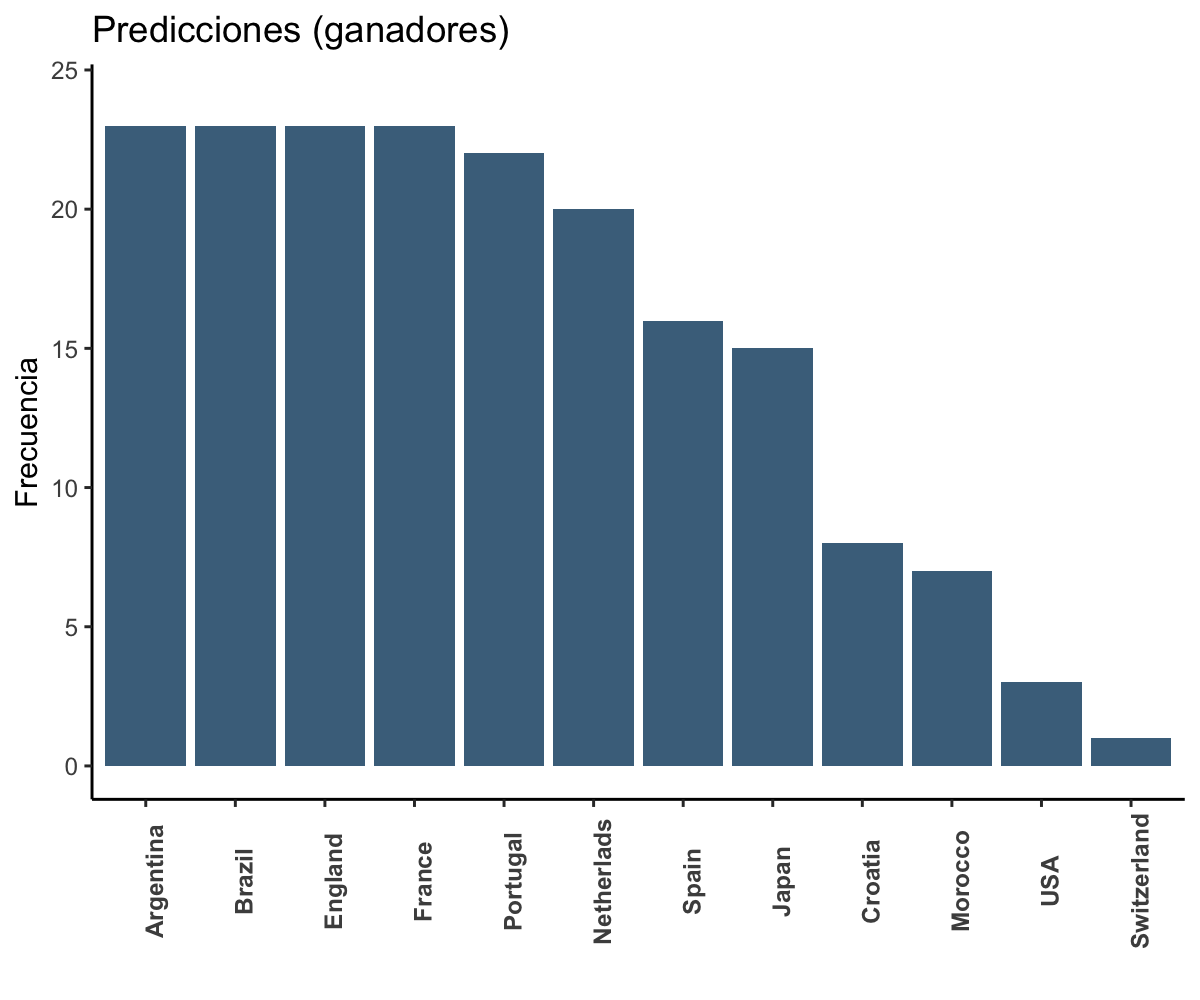
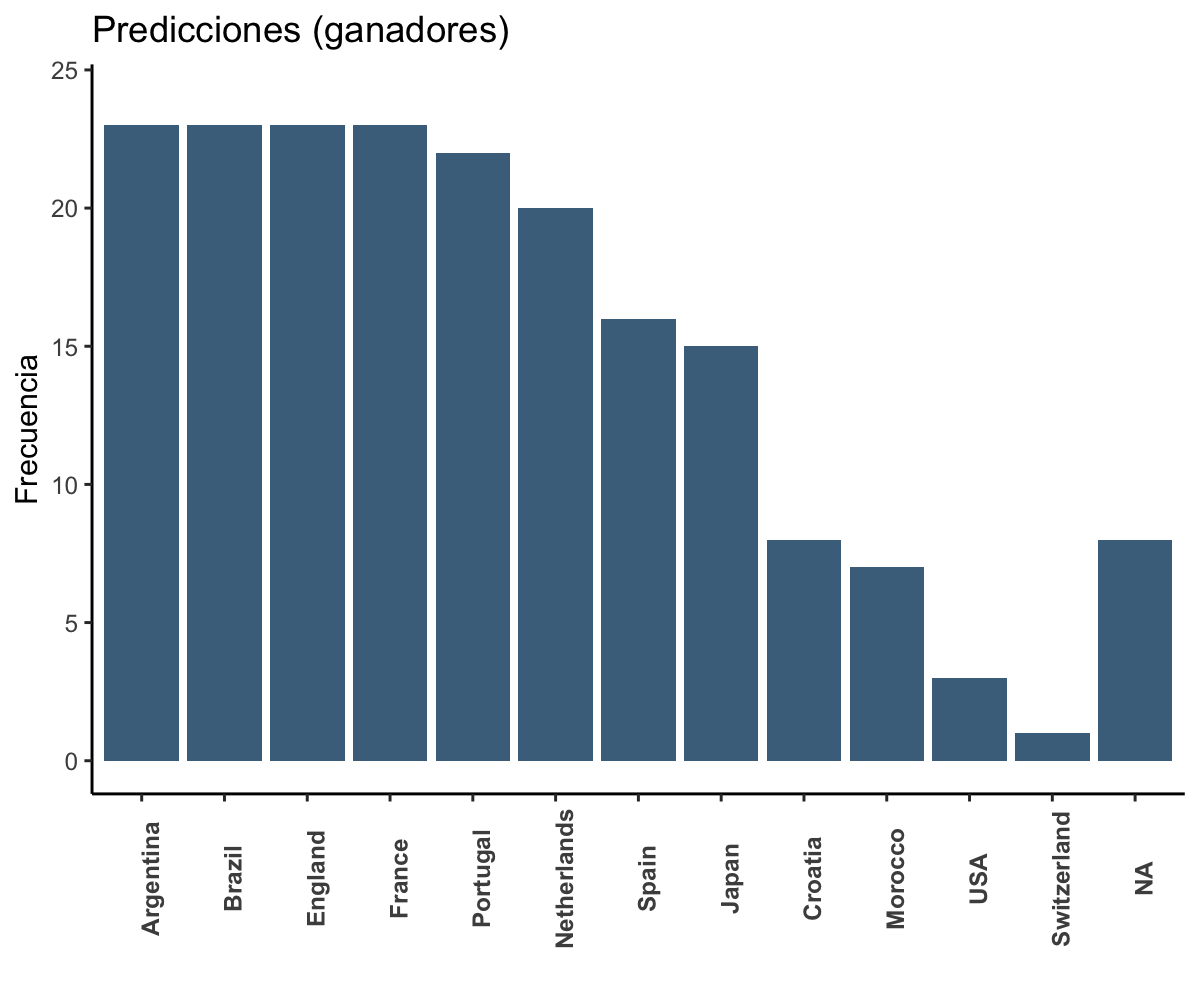
automatic README update

diff --git a/README.md b/README.md
@@ -13,7 +13,7 @@ Este es el repositorio de la quiniela Qatar 2022. Aqui se publicarán las picks 
 
 
 
-Última actualización: Sat  3 Dec 2022 21:25:46 EST.
+Última actualización: Sat  3 Dec 2022 22:11:13 EST.
 
 
 # **Puntuaciones (Actualizadas hasta la fase de grupos)**
@@ -74,29 +74,30 @@ Este es el repositorio de la quiniela Qatar 2022. Aqui se publicarán las picks 
  
 | numero_participante | Nombre                        | Netherlands vs USA | Argentina vs Australia | France vs Poland | England vs Senegal | Japan vs Croatia | Brazil vs Korea | Morocco vs Spain | Portugal vs Switezerland |
 | ------------------- | ----------------------------- | ------------------ | ---------------------- | ---------------- | ------------------ | ---------------- | --------------- | ---------------- | ------------------------ |
-| 001                 | Jonathan                      | Netherlads         | Argentina              | France           | England            | Croatia          | Brazil          | Spain            | Portugal                 |
-| 002                 | Poncho                        | Netherlads         | Argentina              | France           | England            | Japan            | Brazil          | Spain            | Portugal                 |
-| 003                 | Habib Echanove Simon          | Netherlads         | Argentina              | France           | England            | Croatia          | Brazil          | Spain            | Portugal                 |
-| 004                 | Jalil                         | Netherlads         | Argentina              | France           | England            | Japan            | Brazil          | Spain            | Portugal                 |
-| 005                 | Isra torres                   | Netherlads         | Argentina              | France           | England            | Croatia          | Brazil          | Spain            | Portugal                 |
-| 006                 | Juan Carlos Avendaño Aguilar | Netherlads         | Argentina              | France           | England            | Japan            | Brazil          | Spain            | Portugal                 |
-| 007                 | Claudio                       | Netherlads         | Argentina              | France           | England            | Croatia          | Brazil          | Morocco          | Portugal                 |
-| 008                 | Héctor Zepeda Reyes          | Netherlads         | Argentina              | France           | England            | Japan            | Brazil          | Spain            | Portugal                 |
+| 001                 | Jonathan                      | Netherlands        | Argentina              | France           | England            | Croatia          | Brazil          | Spain            | Portugal                 |
+| 002                 | Poncho                        | Netherlands        | Argentina              | France           | England            | Japan            | Brazil          | Spain            | Portugal                 |
+| 003                 | Habib Echanove Simon          | Netherlands        | Argentina              | France           | England            | Croatia          | Brazil          | Spain            | Portugal                 |
+| 004                 | Jalil                         | Netherlands        | Argentina              | France           | England            | Japan            | Brazil          | Spain            | Portugal                 |
+| 005                 | Isra torres                   | Netherlands        | Argentina              | France           | England            | Croatia          | Brazil          | Spain            | Portugal                 |
+| 006                 | Juan Carlos Avendaño Aguilar | Netherlands        | Argentina              | France           | England            | Japan            | Brazil          | Spain            | Portugal                 |
+| 007                 | Claudio                       | Netherlands        | Argentina              | France           | England            | Croatia          | Brazil          | Morocco          | Portugal                 |
+| 008                 | Héctor Zepeda Reyes          | Netherlands        | Argentina              | France           | England            | Japan            | Brazil          | Spain            | Portugal                 |
 | 009                 | Luis Temo Marquez             | USA                | Argentina              | France           | England            | Croatia          | Brazil          | Spain            | Portugal                 |
-| 010                 | Fosi                          | Netherlads         | Argentina              | France           | England            | Croatia          | Brazil          | Spain            | Portugal                 |
-| 011                 | Jacob                         | Netherlads         | Argentina              | France           | England            | Japan            | Brazil          | Morocco          | Portugal                 |
-| 013                 | Ruben                         | Netherlads         | Argentina              | France           | England            | Japan            | Brazil          | Spain            | Portugal                 |
-| 014                 | Valentin                      | Netherlads         | Argentina              | France           | England            | Japan            | Brazil          | Spain            | Portugal                 |
-| 015                 | Daniel Jimenez                | Netherlads         | Argentina              | France           | England            | Japan            | Brazil          | Spain            | Portugal                 |
-| 016                 | Ernie                         | Netherlads         | Argentina              | France           | England            | Croatia          | Brazil          | Spain            | Portugal                 |
+| 010                 | Fosi                          | Netherlands        | Argentina              | France           | England            | Croatia          | Brazil          | Spain            | Portugal                 |
+| 011                 | Jacob                         | Netherlands        | Argentina              | France           | England            | Japan            | Brazil          | Morocco          | Portugal                 |
+| 012                 | Ibrahim T                     | NA                 | NA                     | NA               | NA                 | NA               | NA              | NA               | NA                       |
+| 013                 | Ruben                         | Netherlands        | Argentina              | France           | England            | Japan            | Brazil          | Spain            | Portugal                 |
+| 014                 | Valentin                      | Netherlands        | Argentina              | France           | England            | Japan            | Brazil          | Spain            | Portugal                 |
+| 015                 | Daniel Jimenez                | Netherlands        | Argentina              | France           | England            | Japan            | Brazil          | Spain            | Portugal                 |
+| 016                 | Ernie                         | Netherlands        | Argentina              | France           | England            | Croatia          | Brazil          | Spain            | Portugal                 |
 | 017                 | Bob                           | USA                | Argentina              | France           | England            | Japan            | Brazil          | Morocco          | Portugal                 |
-| 018                 | Eduardo Rafael Palacios Rejòn | Netherlads         | Argentina              | France           | England            | Japan            | Brazil          | Morocco          | Portugal                 |
+| 018                 | Eduardo Rafael Palacios Rejòn | Netherlands        | Argentina              | France           | England            | Japan            | Brazil          | Morocco          | Portugal                 |
 | 019                 | Diego Angeles                 | USA                | Argentina              | France           | England            | Japan            | Brazil          | Spain            | Switzerland              |
-| 020                 | Luis Llamas                   | Netherlads         | Argentina              | France           | England            | Croatia          | Brazil          | Morocco          | Portugal                 |
-| 021                 | German jair                   | Netherlads         | Argentina              | France           | England            | Japan            | Brazil          | Spain            | Portugal                 |
-| 022                 | Colin                         | Netherlads         | Argentina              | France           | England            | Japan            | Brazil          | Morocco          | Portugal                 |
-| 023                 | Adam                          | Netherlads         | Argentina              | France           | England            | Japan            | Brazil          | Spain            | Portugal                 |
-| 024                 | Ahmed                         | Netherlads         | Argentina              | France           | England            | Japan            | Brazil          | Morocco          | Portugal                 |
+| 020                 | Luis Llamas                   | Netherlands        | Argentina              | France           | England            | Croatia          | Brazil          | Morocco          | Portugal                 |
+| 021                 | German jair                   | Netherlands        | Argentina              | France           | England            | Japan            | Brazil          | Spain            | Portugal                 |
+| 022                 | Colin                         | Netherlands        | Argentina              | France           | England            | Japan            | Brazil          | Morocco          | Portugal                 |
+| 023                 | Adam                          | Netherlands        | Argentina              | France           | England            | Japan            | Brazil          | Spain            | Portugal                 |
+| 024                 | Ahmed                         | Netherlands        | Argentina              | France           | England            | Japan            | Brazil          | Morocco          | Portugal                 |
 
 ![](media/picks_K08.png)
 
@@ -118,6 +119,7 @@ Este es el repositorio de la quiniela Qatar 2022. Aqui se publicarán las picks 
 | 009                 | Luis Temo Marquez             | 1-2                      | 3-1                          | 2-0                    | 2-0                      | 0-1                    | 3-1                   | 2-3                    | 1-0                           |
 | 010                 | Fosi                          | 1-0                      | 2-0                          | 2-1                    | 3-0                      | 1-1                    | 2-1                   | 0-1                    | 2-1                           |
 | 011                 | Jacob                         | 2-1                      | 3-1                          | 2-0                    | 3-2                      | 1-0                    | 2-0                   | 1-0                    | 2-0                           |
+| 012                 | Ibrahim T                     | NA                       | NA                           | NA                     | NA                       | NA                     | NA                    | NA                     | NA                            |
 | 013                 | Ruben                         | 2-1                      | 3-1                          | 2-0                    | 1-0                      | 2-1                    | 2-0                   | 2-0                    | 2-1                           |
 | 014                 | Valentin                      | 1-0                      | 3-0                          | 2-0                    | 3-1                      | 2-1                    | 4-1                   | 2-1                    | 2-1                           |
 | 015                 | Daniel Jimenez                | 1-1                      | 3-1                          | 3-0                    | 4-2                      | 2-0                    | 4-1                   | 2-2                    | 3-2                           |
